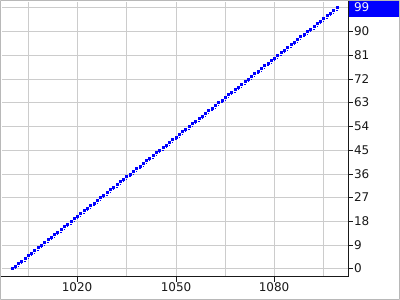
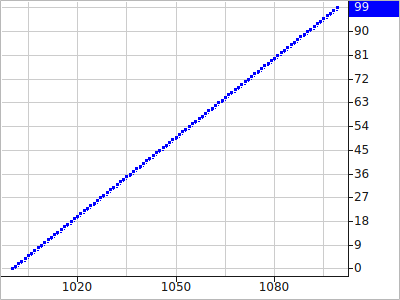
graph_qt, view_manager_qt: re-record the Linux goldens for Qt 6.11.2
The client's v2.6.3 CI run (scada-client run 42506651766) failed only on
its Ubuntu/GCC leg: graph_qt's basic_graph, multiple_lines and
multiple_panes and view_manager_qt's open_layout and component_workflow
differed from their Linux goldens by 1719/1829/2499/13767/11188 pixels.
The same suites passed on v2.6.0 (2026-11-02), before the vcpkg bump to
a2f9862da6 brought Qt 6.11.2.

The new baselines are the run's own actual_<name>.png renders from the
linux-goldens artifact, reviewed against the old goldens first: every
differing pixel is inside a text glyph. Lines, points, grid, fills,
selection highlights, headers and layout are unchanged, and the date
labels match, so this is glyph rasterization drift and not a broken
render. Windows and macOS were unaffected.

Both CLAUDE.md files now describe that re-record route, and the line
"Deleting a golden is the only way to ask for a new baseline" now reads
"The test regenerates a golden only when it is missing", which is what
that paragraph actually describes.

diff --git a/CLAUDE.md b/CLAUDE.md
@@ -133,7 +133,16 @@ as the `linux-goldens` artifact to review and commit. The time axis is
 rendered in local time, so the date labels — and the goldens — also depend on
 the time zone the tests run in: CI runners are UTC.
 
-**Deleting a golden is the only way to ask for a new baseline.** A golden that
+**A Qt bump moves the Linux set, and the fix is a reviewed re-record, not a
+delete.** The Linux leg's `linux-goldens` artifact also carries the
+`actual_<name>.png` of every mismatch, so the new baseline is already in hand:
+diff it against the golden, confirm the differences are confined to glyphs,
+and copy it over. Re-recorded that way on 2026-11-08, when the vcpkg bump to
+Qt 6.11.2 changed Linux text rasterization by 1.7k–13.8k pixels per image
+with every line, fill and layout unchanged (scada-client run 42506651766);
+Windows and macOS were unaffected.
+
+**The test regenerates a golden only when it is missing.** A golden that
 is present but does not decode — truncated, corrupt, or a build without the PNG
 codec — fails the test and tells you to restore it from git; it is never treated
 as "no baseline yet". The two used to be one condition, and a run without the
